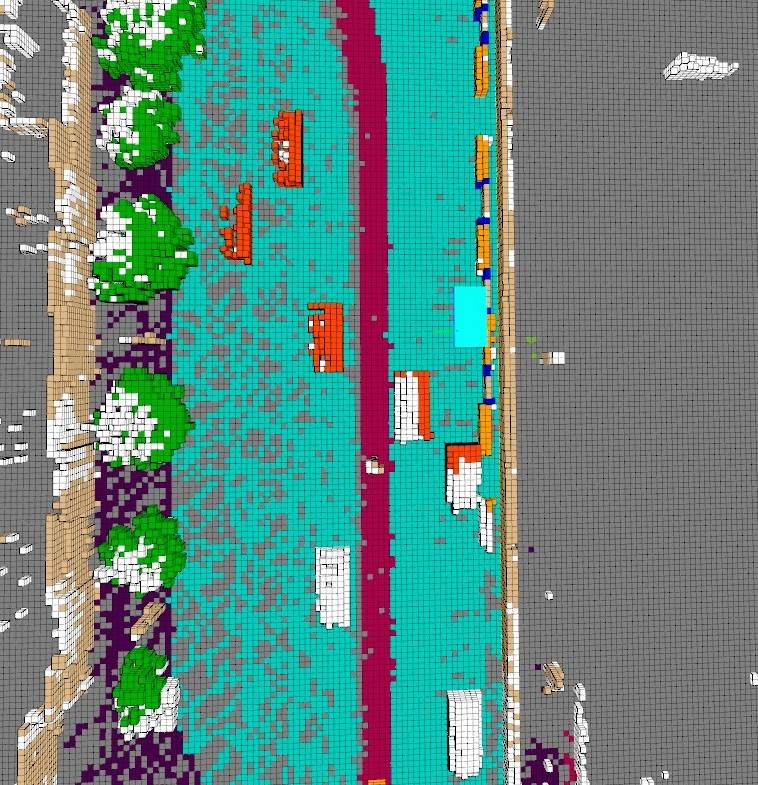
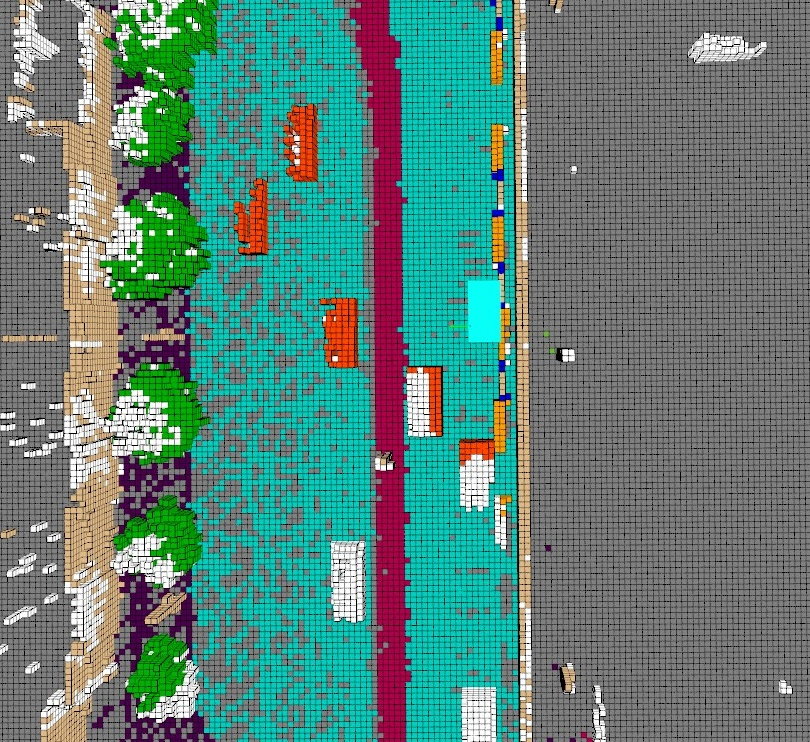
add figs

diff --git a/README.md b/README.md
@@ -71,11 +71,12 @@ where $P_a$ is the percentage of predicted voxels that are within a distance thr
 
 ## Data
 <div id="top"  align="center">
-<img src="./figs/mask_lidar.jpg" width="320px">
-<img src="./figs/mask_camera.jpg" width="320px">
+<img src="./figs/mask_none.jpg" width="256px">
+<img src="./figs/mask_lidar.jpg" width="256px">
+<img src="./figs/mask_camera.jpg" width="256px">
 </div>
 <div id="top" align="center">
-Figure 1. Voxel labels in LiDAR and Camera view.
+Figure 1. Mask in LiDAR and camera view.
 </div>
 
 ### Basic Information
@@ -100,9 +101,9 @@ Figure 1. Voxel labels in LiDAR and Camera view.
 - <strong>How are the labels annotated?</strong> The ground truth labels of occupancy derive from accumulative LiDAR scans with human annotations. 
   - If a voxel reflects a LiDAR point, then it is assigned as the same semantic label as the LiDAR point;
   - If a LiDAR beam passes through a voxel in the air, the voxel is set to be `free`;
-  - Otherwise, we set the voxel to be unknown, or unobserved. This happens due to the sparsity of the LiDAR or the voxel is occluded, e.g. by a wall. In the dataset, `[mask_lidar]` is a 0-1 binary mask, where 0's represent unobserved voxels. As shown in Fig.1(a), grey voxels are unobserved. Due to the limitation of the visualization tool, we only show unobserved voxels at the same height as the ground. 
+  - Otherwise, we set the voxel to be unknown, or unobserved. This happens due to the sparsity of the LiDAR or the voxel is occluded, e.g. by a wall. In the dataset, `[mask_lidar]` is a 0-1 binary mask, where 0's represent unobserved voxels. As shown in Fig.1(b), grey voxels are unobserved. Due to the limitation of the visualization tool, we only show unobserved voxels at the same height as the ground. 
 
-- <strong>Camera visibility.</strong> Note that the installation positions of LiDAR and cameras are different, therefore, some observed voxels in the  LiDAR view are not seen by the cameras. Since we focus on a vision-centric task, we provide a binary voxel mask `[mask_camera]`, indicating whether the voxels are observed or not in the current camera view. As shown in Fig.1(b), white voxels are observed in the accumulative LiDAR view but unobserved in the current camera view.
+- <strong>Camera visibility.</strong> Note that the installation positions of LiDAR and cameras are different, therefore, some observed voxels in the  LiDAR view are not seen by the cameras. Since we focus on a vision-centric task, we provide a binary voxel mask `[mask_camera]`, indicating whether the voxels are observed or not in the current camera view. As shown in Fig.1(c), white voxels are observed in the accumulative LiDAR view but unobserved in the current camera view.
 
 - Both `[mask_lidar]` and `[mask_camera]` masks are optional for training. Participants do not need to predict the masks. Only `[mask_camera]` is used for evaluation; the unobserved voxels are not involved during calculating the F-score and mIoU.
 
